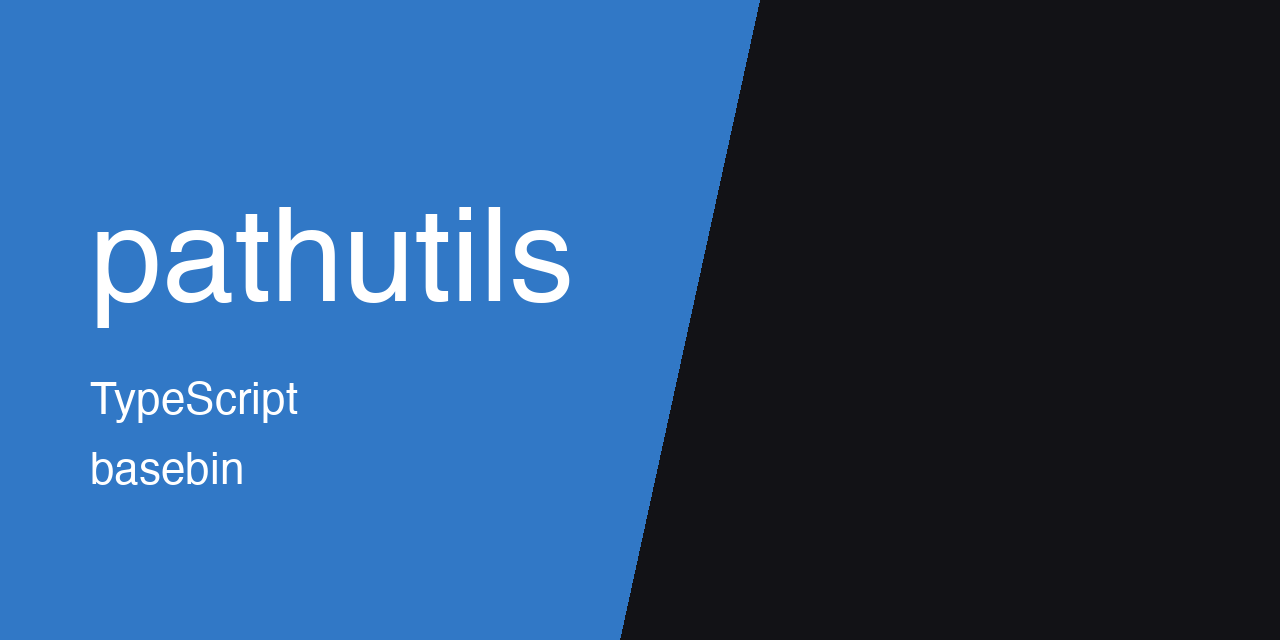
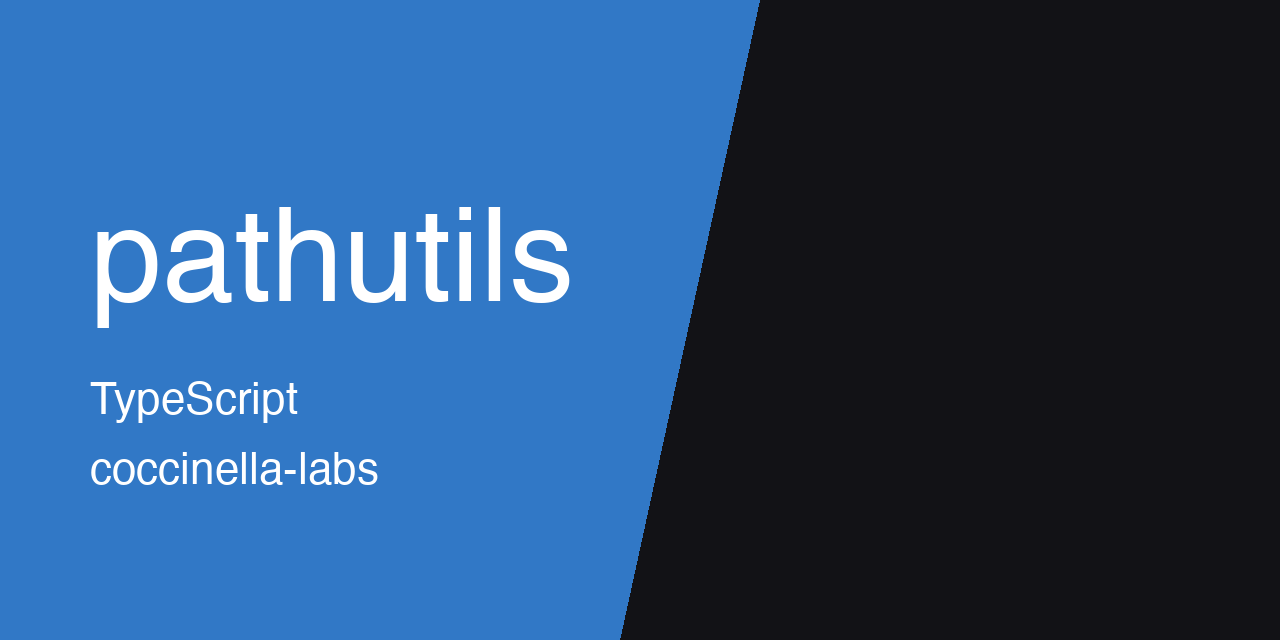
[docs] move thumbnail to coccinella-labs

Changed region(s): [[0.0625, 0.7188, 0.3125, 0.7812]]

diff --git a/README.md b/README.md
@@ -1,5 +1,5 @@
 <p align="center">
-  <img src="https://raw.githubusercontent.com/basebin/pathutils/main/.github/assets/thumbnail.png" alt="pathutils" width="100%">
+  <img src="https://raw.githubusercontent.com/Coccinella-Labs/pathutils/main/.github/assets/thumbnail.png" alt="pathutils" width="100%">
 </p>
 
 path handling for node.js.
